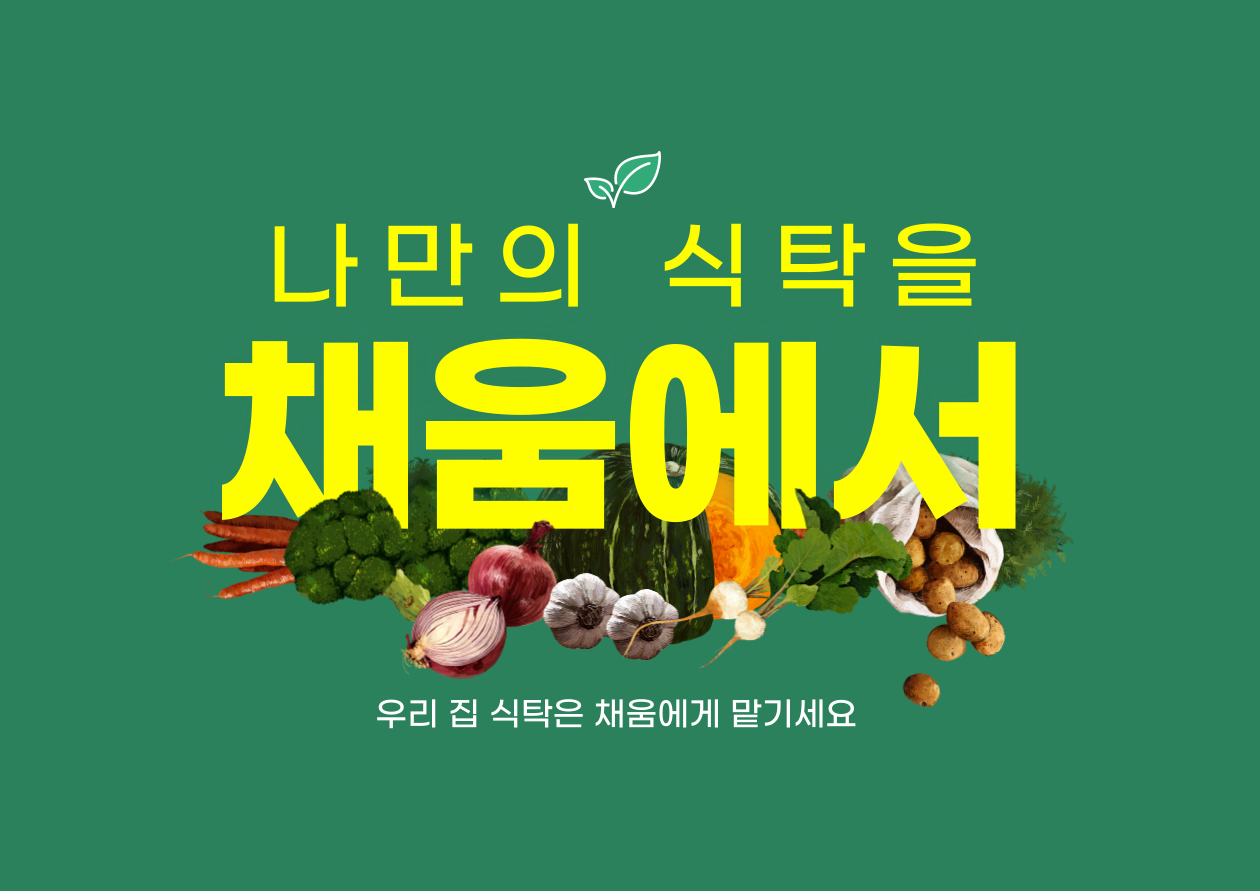
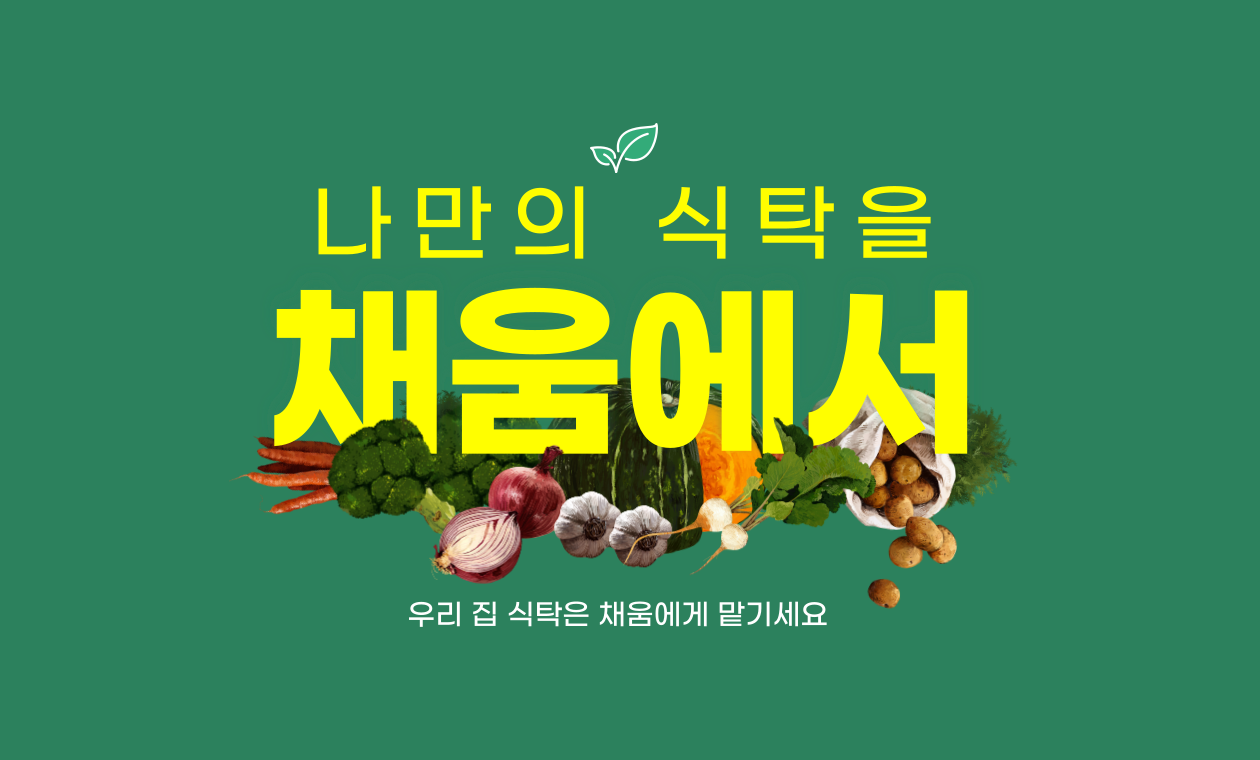
feat: 메인화면 carousel 추가
Former-commit-id: f342241a0ba96ced7f773a4cf88cd6da1c4197be

Changed region(s): [[0.1548, 0.2421, 0.8667, 0.8474], [0.4643, 0.1513, 0.5262, 0.2421]]

diff --git a/fe/lib/main/maincarousel.dart b/fe/lib/main/maincarousel.dart
@@ -1,0 +1,86 @@
+import 'package:flutter/material.dart';
+import 'package:carousel_slider/carousel_slider.dart';
+
+class MainCarousel extends StatefulWidget {
+  const MainCarousel({super.key});
+
+  @override
+  State<MainCarousel> createState() => _MainCarouselState();
+}
+
+class _MainCarouselState extends State<MainCarousel> {
+
+  List imageList = [
+  {'id': 1, 'image_path':'assets/images/main/main_banner1.png'},
+  {'id': 2, 'image_path':'assets/images/main/main_banner2.png'},
+  ];
+  final CarouselController carouselController = CarouselController();
+  int currentIndex = 0;
+
+  @override
+  Widget build(BuildContext context) {
+    return Column(
+      children: [
+        Stack(
+          children: [
+            InkWell(
+              onTap: (){
+                print(currentIndex);
+              },
+              child: CarouselSlider(
+                items: imageList.map(
+                    (item)=> Image.asset(
+                      item['image_path'],
+                      fit: BoxFit.cover,
+                      width: double.infinity,
+                    ),
+                ).toList(),
+                carouselController: carouselController,
+                options: CarouselOptions(
+                  scrollPhysics: const BouncingScrollPhysics(),
+                  autoPlay: true,
+                  aspectRatio: 2,
+                  viewportFraction: 1,
+                  autoPlayInterval: Duration(seconds: 5),
+                  autoPlayAnimationDuration: Duration(seconds: 2),
+                  onPageChanged: (index, reason) {
+                    setState(() {
+                      currentIndex = index;
+                    });
+                  }
+                ),
+              ),
+            ),
+            Positioned(
+            bottom: 10,
+            left: 0,
+            right: 0,
+            child: Row(
+              mainAxisAlignment: MainAxisAlignment.center,
+              children:
+                imageList.asMap().entries.map((entry){
+                  return GestureDetector(
+                    onTap: ()=> carouselController.animateToPage(entry.key),
+                    child: Container(
+                      width: currentIndex == entry.key ? 17 : 7,
+                      height: 7,
+                      margin: EdgeInsets.symmetric(
+                        horizontal: 3.0,
+                      ),
+                      decoration: BoxDecoration(
+                          borderRadius: BorderRadius.circular(10),
+                          color: currentIndex == entry.key
+                              ? Color(0xffA1CBA1)
+                              : Color(0xff868E96)
+                      ),
+                    ),
+                  );
+                }).toList(),
+            ),
+            ),
+          ],
+        )
+      ],
+    );
+  }
+}

diff --git a/fe/lib/main/mainbody.dart b/fe/lib/main/mainbody.dart
@@ -3,6 +3,7 @@ import '../repeat/search.dart';
 import './maincategory.dart';
 import './mainbest.dart';
 import './mainrowprice.dart';
+import './maincarousel.dart';
 
 
 class Mainb extends StatefulWidget {
@@ -12,14 +13,17 @@ class Mainb extends StatefulWidget {
   State<Mainb> createState() => _MainbState();
 }
 
-class _MainbState extends State<Mainb> {
+class _MainbState extends State<Mainb> with AutomaticKeepAliveClientMixin {
+  @override
+  bool get wantKeepAlive => true;
+
   @override
   Widget build(BuildContext context) {
     return CustomScrollView(
       slivers: [
         SliverToBoxAdapter(child: Search()),
         SliverToBoxAdapter(
-            child: Image.asset('assets/images/main/main_banner1.png',)),
+            child: MainCarousel()),
         Title(num : 0),
         MainCategory(),
         Title(num : 1),
